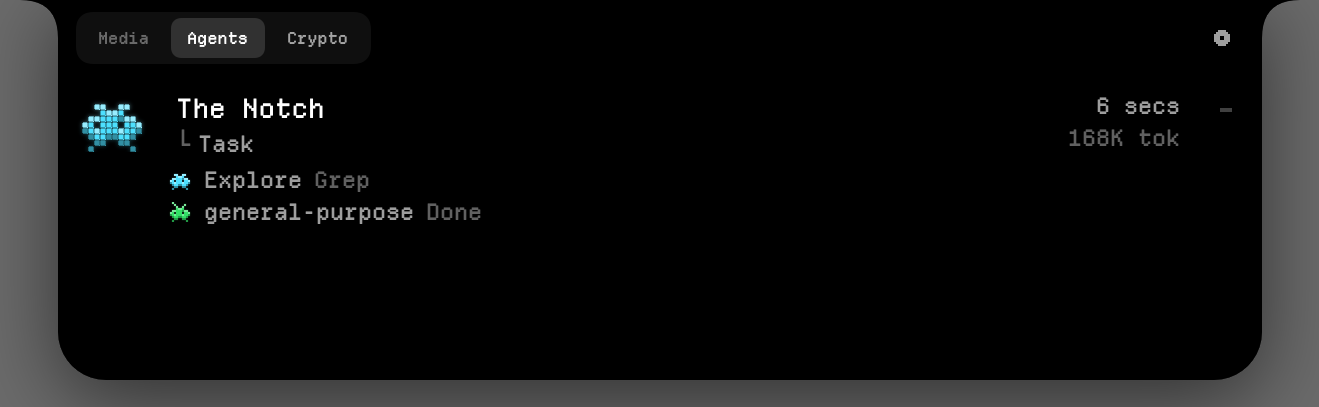
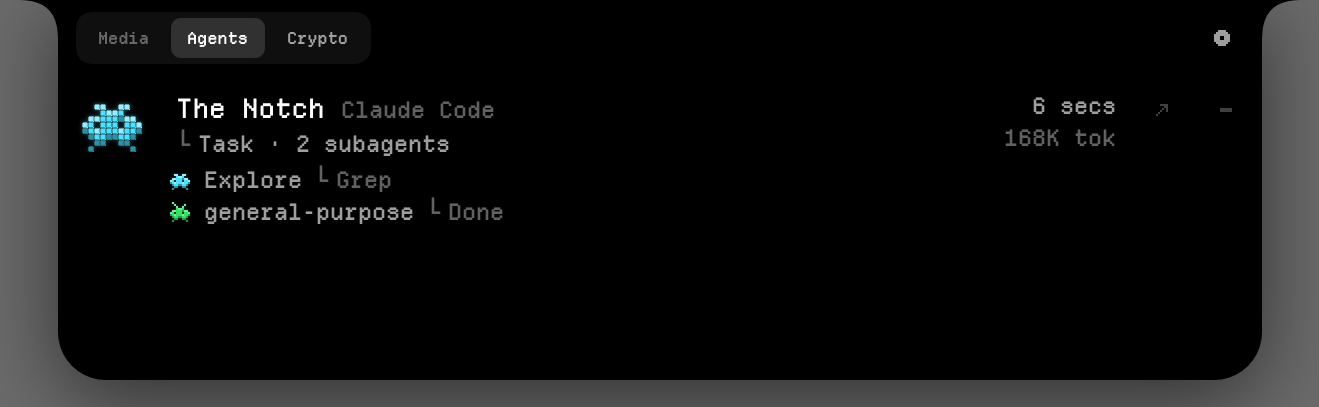
readme: refresh the screenshots for lyrics, host labels and the permission card

diff --git a/README.md b/README.md
@@ -29,7 +29,7 @@ music and crypto prices.
   notch pops open and shows what it wants. You answer in the agent's terminal as usual.
 - **A mascot that is alive.** Each state has its own motion and colour. It startles when it needs
   you, celebrates when it is done, and falls asleep when it has been idle for a while.
-- **Media, HUD and crypto.** Now playing with controls, a volume and brightness HUD that replaces
+- **Media, HUD and crypto.** Now playing with controls and synced lyrics, a volume and brightness HUD that replaces
   the macOS one, and pinned Binance prices.
 - **Works on any Mac.** Macs without a notch get a drawn notch in the same place.
 
@@ -37,15 +37,15 @@ music and crypto prices.
 
 **Closed**, the notch shows the most important thing right now:
 
-<p align="center"><img src="docs/images/collapsed.png" width="640" alt="The closed notch in five states"></p>
+<p align="center"><img src="docs/images/collapsed.png" width="640" alt="The closed notch in six states"></p>
 
 **Open** (hover over the notch), it shows the full panel:
 
-| Agents and subagents | Approving a command |
+| Agents and subagents | A permission prompt |
 | --- | --- |
-| <img src="docs/images/agents.png" alt="Agent sessions with subagents"> | <img src="docs/images/approval.png" alt="Approval card with Deny, Always Allow and Allow Once"> |
-| **Now playing** | **Crypto watchlist** |
-| <img src="docs/images/media.png" alt="Media player"> | <img src="docs/images/crypto.png" alt="Crypto watchlist"> |
+| <img src="docs/images/agents.png" alt="An agent session with its host, current tool and two subagents"> | <img src="docs/images/approval.png" alt="Permission card showing the blocked Bash command and a link back to the agent"> |
+| **Now playing, with synced lyrics** | **Crypto watchlist** |
+| <img src="docs/images/media.png" alt="Media player showing the current lyric line"> | <img src="docs/images/crypto.png" alt="Crypto watchlist"> |
 
 ## Install
 
